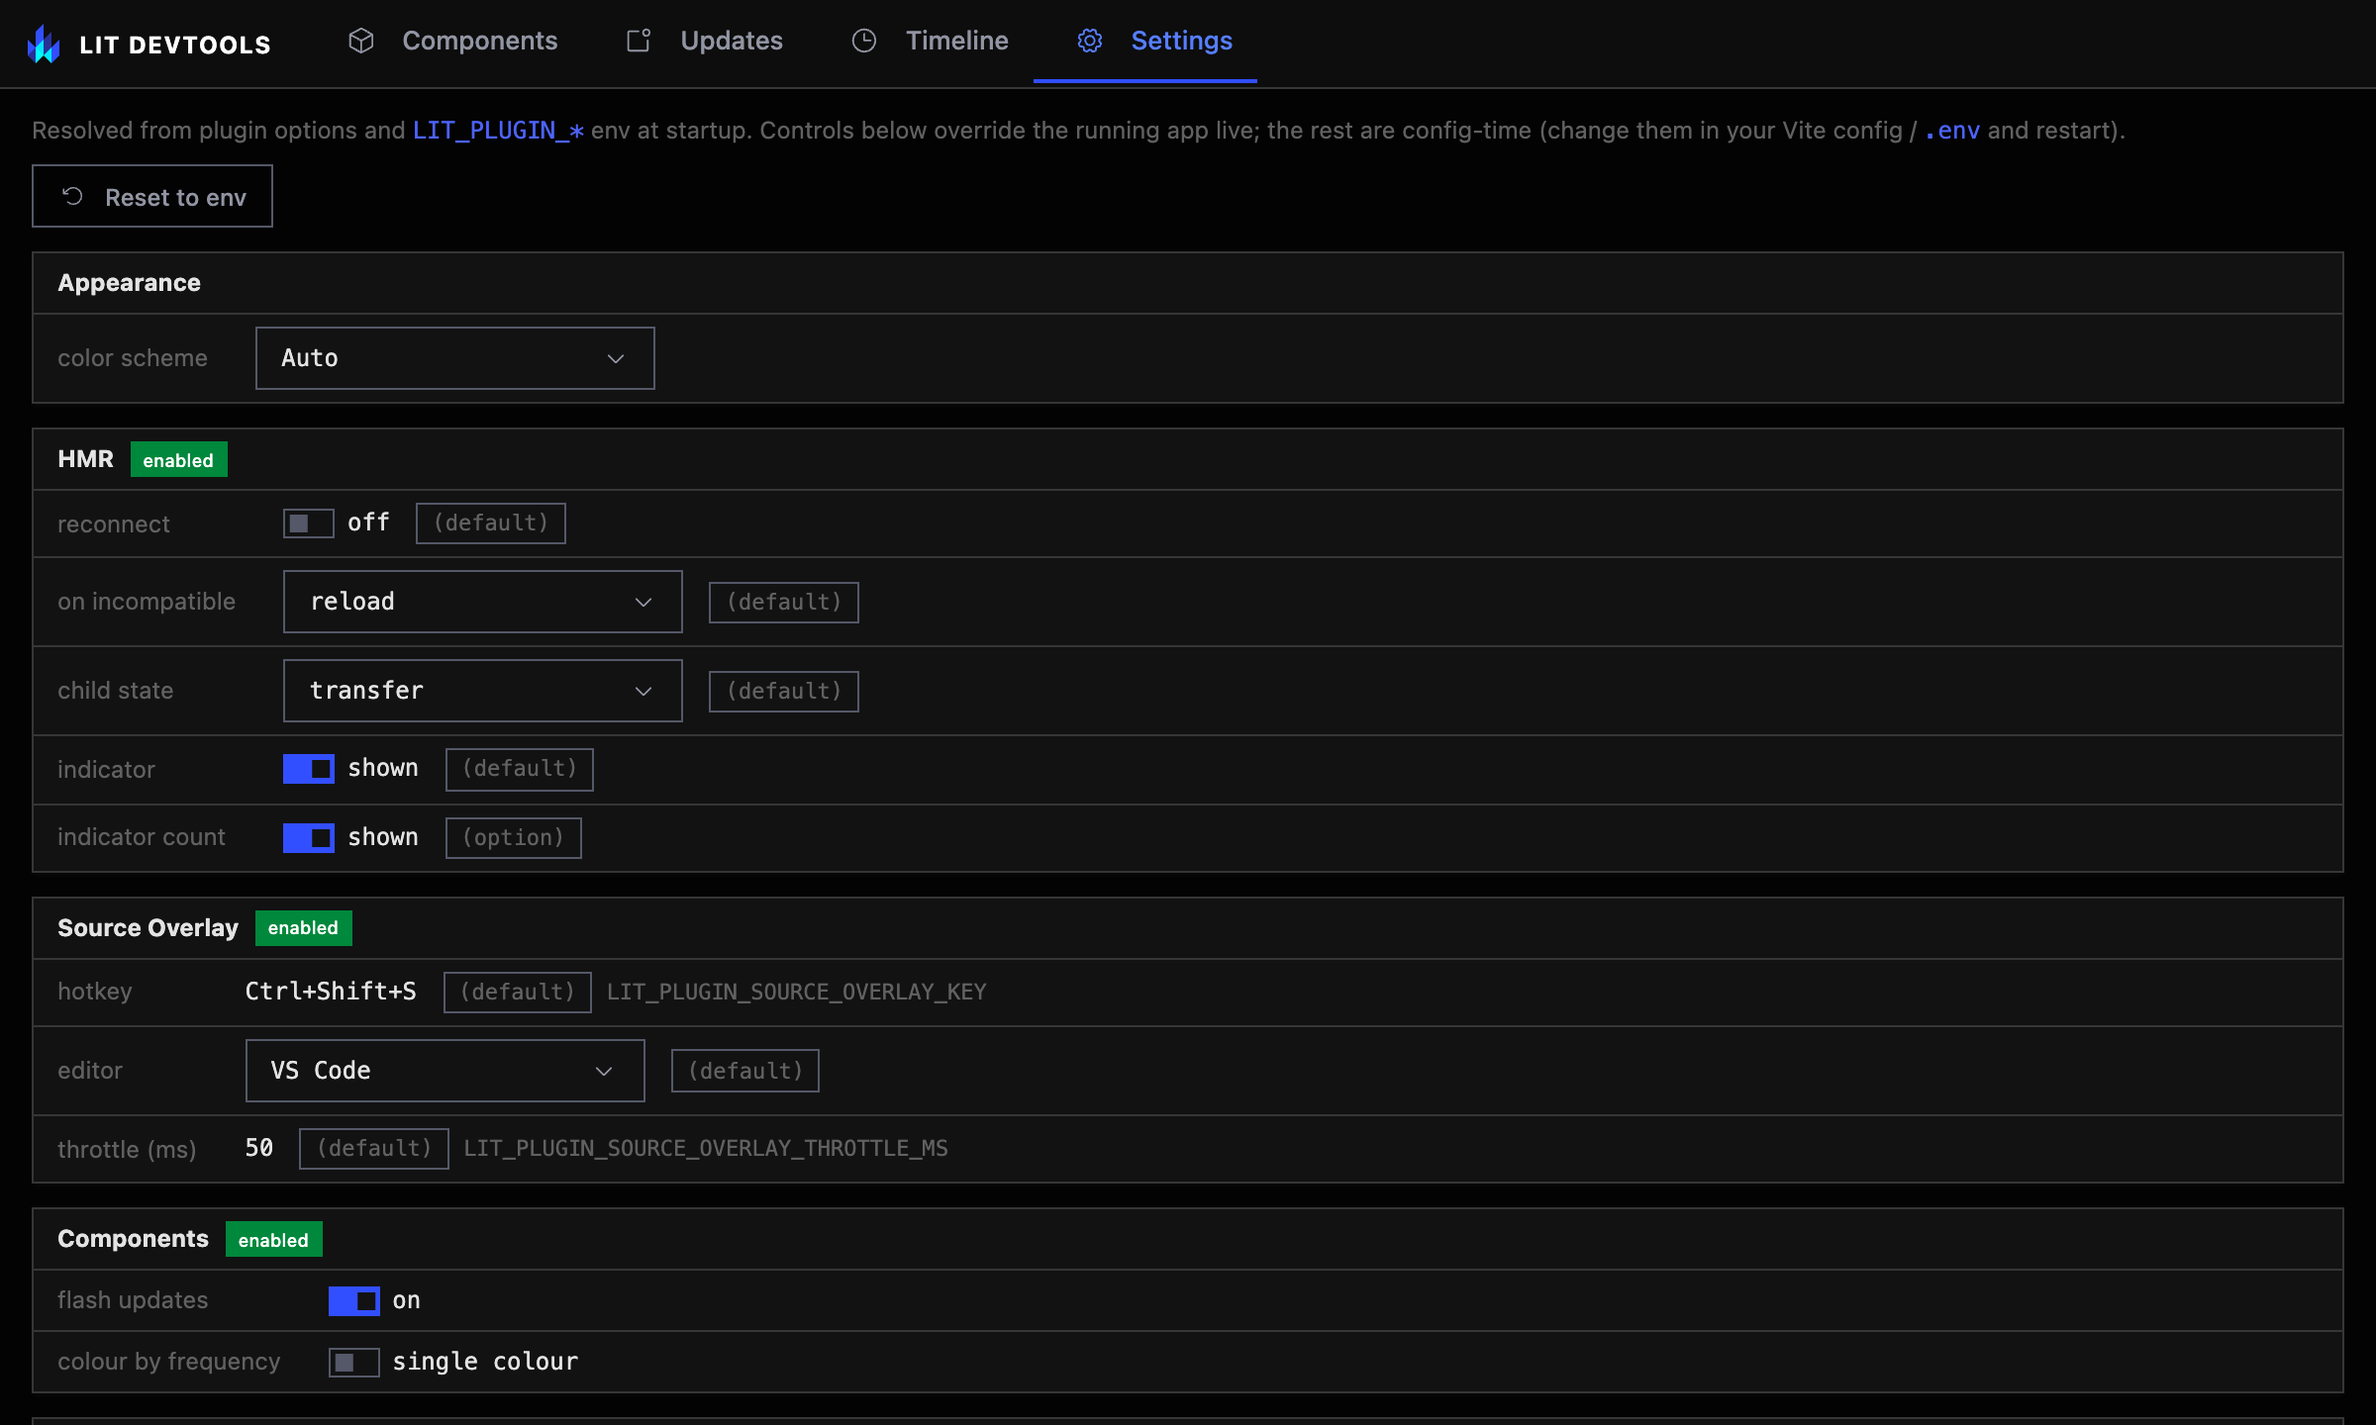
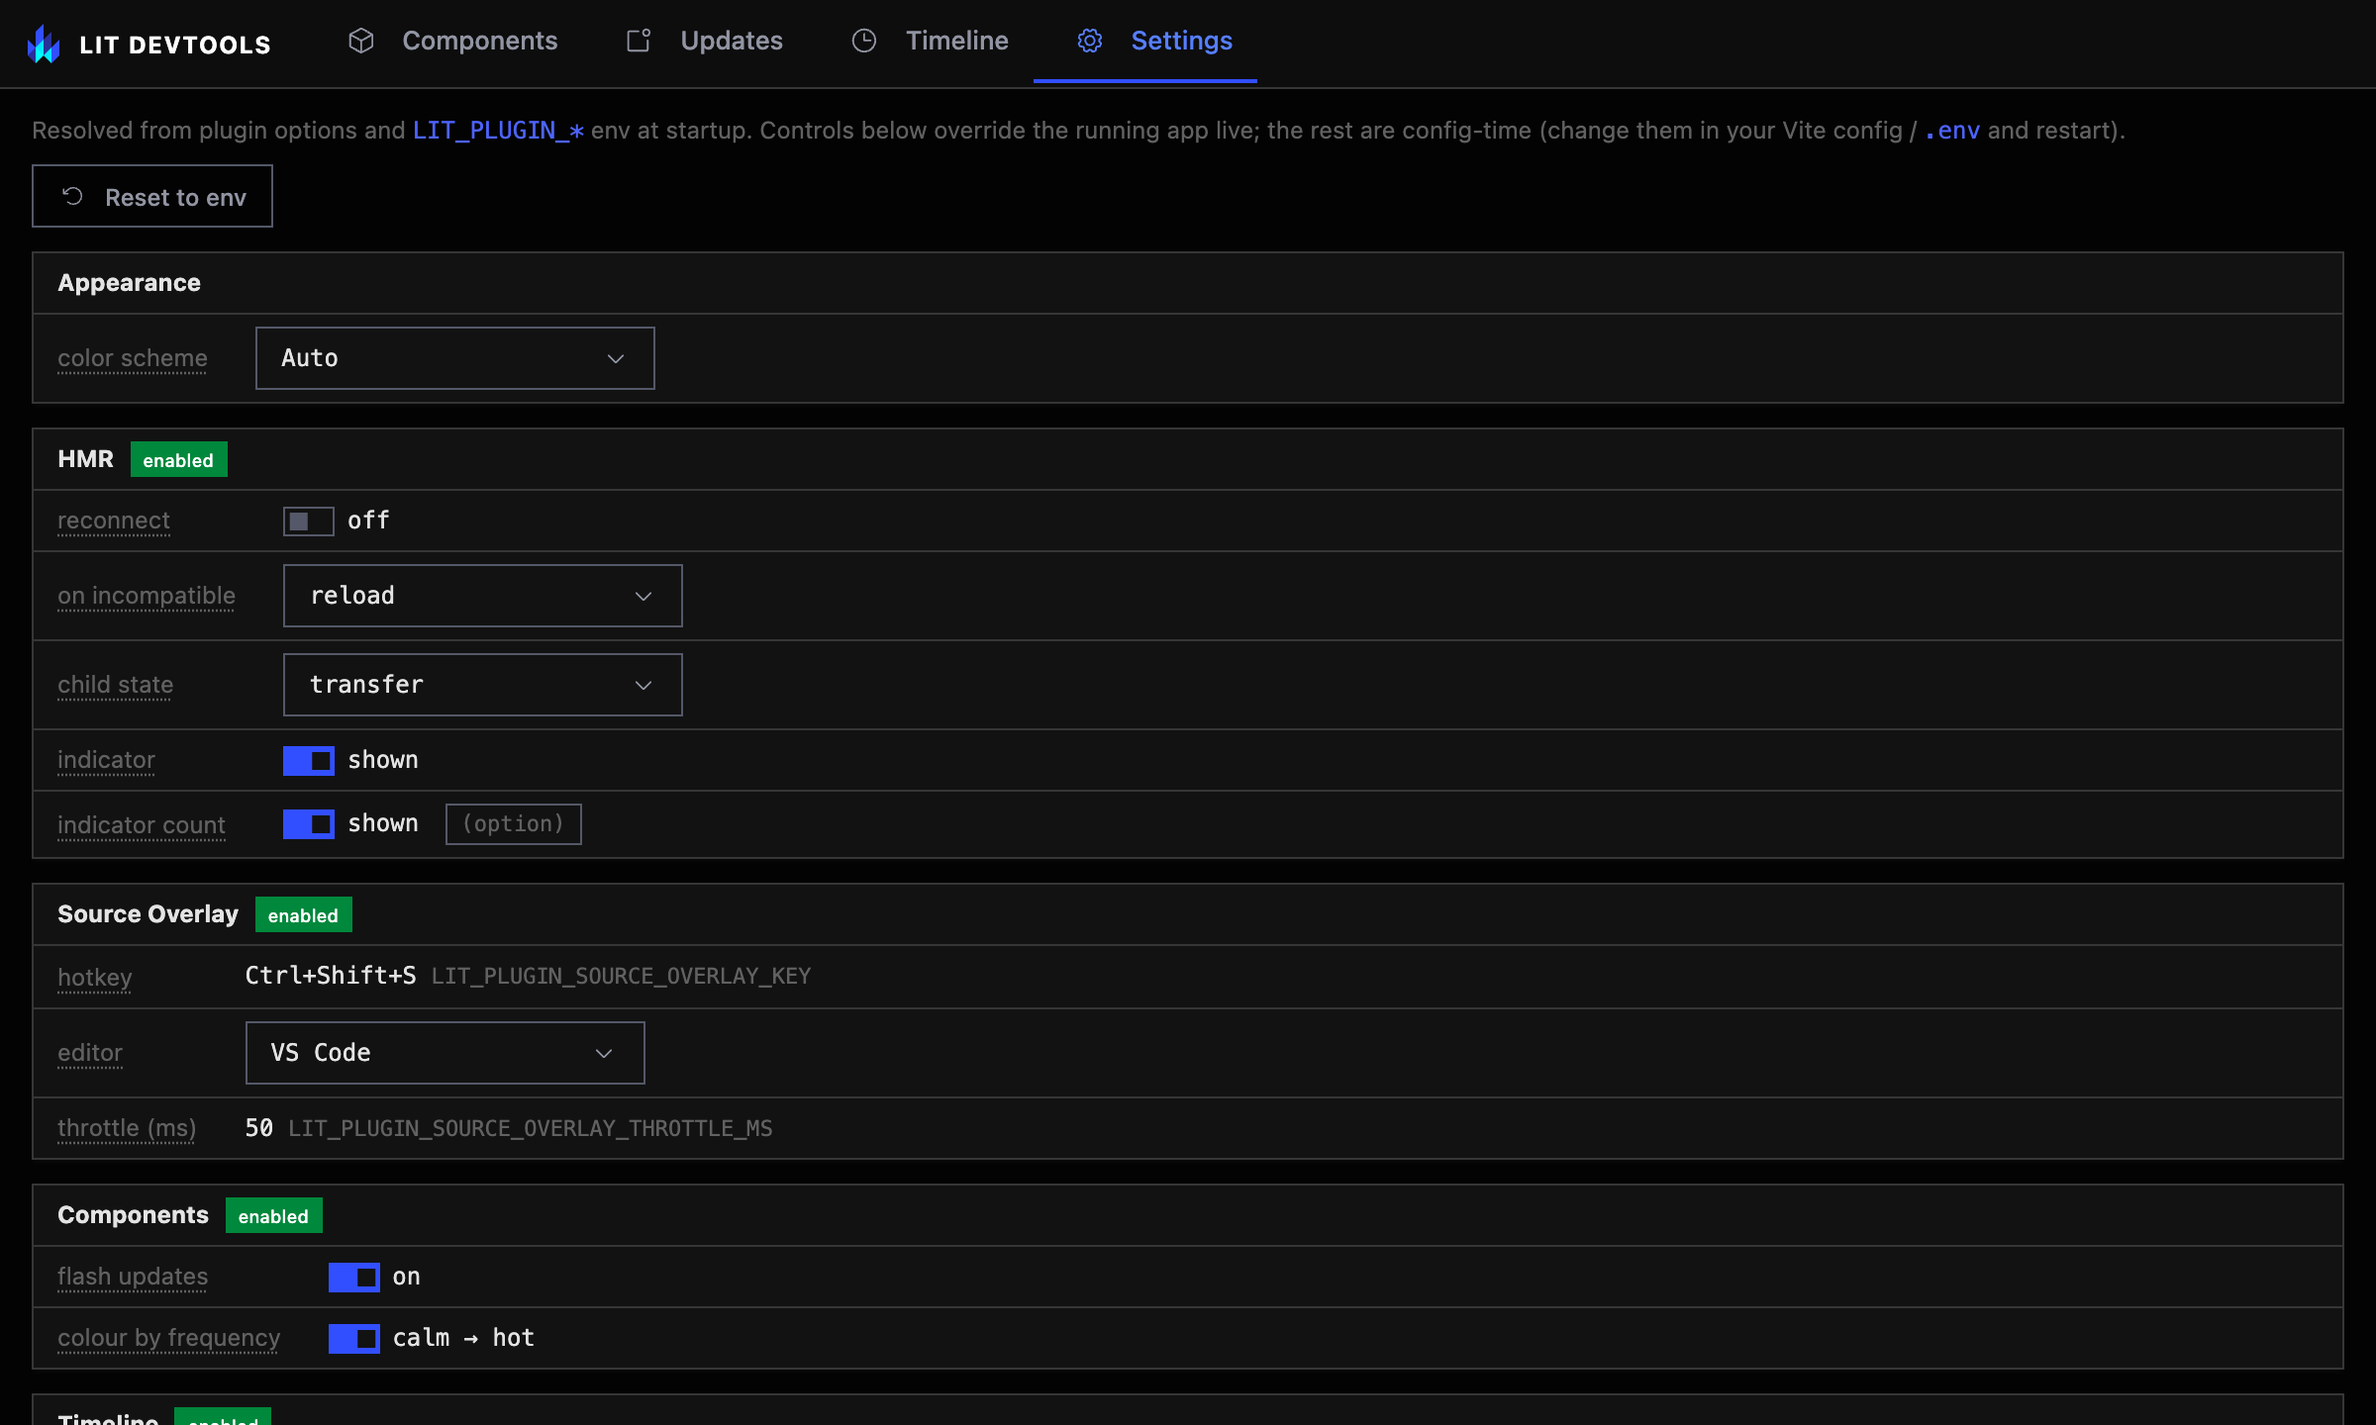
Drop the (default) badge from Settings and explain each row
Nearly every Settings row ended in "(default)", so the badges that do carry
information, "(env)" and "(option)", were lost in the noise. A row now shows
an origin badge only when something other than the built-in default set it.

What the default is moved to where you'd look for it. An open dropdown tags
the configured choice with its origin (default, env or option), and each
setting's name carries a tooltip that says what it does and what it defaults
to. The options get an explicit label, because wa-option otherwise builds the
closed field's text from the end slot too.

Changelog: Changed
  **Settings stops saying "(default)" on every row.** Only values set by an
  option or env var keep an origin badge. Open a dropdown to see which choice
  is the default, or hover a setting's name for what it does and its default.

diff --git a/src/panel/devtools-settings.ts b/src/panel/devtools-settings.ts
@@ -1,4 +1,5 @@
 import {LitElement, html, css, nothing} from 'lit';
+import {ifDefined} from 'lit/directives/if-defined.js';
 import {customElement, state} from 'lit/decorators.js';
 import '@awesome.me/webawesome/dist/components/badge/badge.js';
 import '@awesome.me/webawesome/dist/components/button/button.js';
@@ -94,6 +95,15 @@ export class DevtoolsSettings extends LitElement {
         color: var(--lit-devtools-text-muted);
         white-space: nowrap;
         width: 1%;
+      }
+      .key[data-tip] {
+        cursor: help;
+        text-decoration: underline dotted;
+        text-underline-offset: 3px;
+      }
+      .opt-src {
+        opacity: 0.7;
+        font-size: var(--lit-devtools-text-2xs);
       }
       .val {
         color: var(--lit-devtools-text);
@@ -278,18 +288,37 @@ export class DevtoolsSettings extends LitElement {
   }
 
   /**
-   * Origin badge behind a value, from the server-side provenance:
-   * "(env)", "(option)" or "(default)". Nothing when the server sent none.
+   * Origin badge behind a value, from the server-side provenance: "(env)" or
+   * "(option)". Nothing for a built-in default, which is most rows and would
+   * only be noise, or when the server sent no provenance.
    */
   private _source(key: keyof SettingSources) {
     const src = this._settings?.sources?.[key];
-    return src
+    return src && src !== 'default'
       ? html`<wa-badge
           class="env src"
           size="small"
           appearance="outlined"
           variant="neutral"
           >(${src})</wa-badge
+        >`
+      : nothing;
+  }
+
+  /**
+   * Marker trailing the select option that holds the config baseline, naming
+   * where it came from, so the open list shows which choice is the default.
+   * Option labels come from the default slot only, so the closed select
+   * doesn't repeat it.
+   */
+  private _optSource(
+    key: keyof SettingSources,
+    value: string,
+    baseline: string
+  ) {
+    return value === baseline
+      ? html`<span slot="end" class="opt-src"
+          >${this._settings?.sources?.[key] ?? 'default'}</span
         >`
       : nothing;
   }
@@ -366,11 +395,12 @@ export class DevtoolsSettings extends LitElement {
     key: string,
     value: unknown,
     env?: string,
-    source?: keyof SettingSources
+    source?: keyof SettingSources,
+    tip?: string
   ) {
     return html`
       <tr>
-        <td class="key">${key}</td>
+        <td class="key" data-tip=${ifDefined(tip)}>${key}</td>
         <td class="val">
           ${String(value)} ${source ? this._source(source) : nothing}
           ${env ? html`<span class="env">${env}</span>` : nothing}
@@ -386,7 +416,12 @@ export class DevtoolsSettings extends LitElement {
           <h3 slot="header">Appearance</h3>
           <table>
             <tr>
-              <td class="key">color scheme</td>
+              <td
+                class="key"
+                data-tip="Light or dark panel. Auto follows the system. Default: Auto"
+              >
+                color scheme
+              </td>
               <td class="val">
                 <wa-select
                   size="small"
@@ -404,7 +439,15 @@ export class DevtoolsSettings extends LitElement {
                     ] as Array<[ColorSchemePreference, string]>
                   ).map(
                     ([value, label]) =>
-                      html`<wa-option value=${value}>${label}</wa-option>`
+                      html`<wa-option value=${value} .label=${label}
+                        >${label}${
+                          value === 'auto'
+                            ? html`<span slot="end" class="opt-src"
+                                >default</span
+                              >`
+                            : nothing
+                        }</wa-option
+                      >`
                   )}
                 </wa-select>
               </td>
@@ -432,7 +475,12 @@ export class DevtoolsSettings extends LitElement {
     return html`
       <table>
         <tr>
-          <td class="key">reconnect</td>
+          <td
+            class="key"
+            data-tip="Run disconnectedCallback and connectedCallback on live instances after a hot patch. Default: off"
+          >
+            reconnect
+          </td>
           <td class="val">
             <wa-switch
               size="small"
@@ -450,7 +498,12 @@ export class DevtoolsSettings extends LitElement {
           </td>
         </tr>
         <tr>
-          <td class="key">on incompatible</td>
+          <td
+            class="key"
+            data-tip="What to do when a component can't be hot-patched in place: reload the page, or only warn. Default: reload"
+          >
+            on incompatible
+          </td>
           <td class="val">
             <wa-select
               size="small"
@@ -461,14 +514,27 @@ export class DevtoolsSettings extends LitElement {
                   (e.target as WaSelect).value as 'reload' | 'warn'
                 )}
             >
-              <wa-option value="reload">reload</wa-option>
-              <wa-option value="warn">warn</wa-option>
+              ${(['reload', 'warn'] as const).map(
+                (mode) =>
+                  html`<wa-option value=${mode} .label=${mode}
+                    >${mode}${this._optSource(
+                      'hmrOnIncompatible',
+                      mode,
+                      s.hmr.onIncompatible
+                    )}</wa-option
+                  >`
+              )}
             </wa-select>
             ${this._ovrSource('hmrOnIncompatible', s.hmr.onIncompatible)}
           </td>
         </tr>
         <tr>
-          <td class="key">child state</td>
+          <td
+            class="key"
+            data-tip="What happens to custom elements inside an edited template: transfer hands them the old properties and private state, reuse puts the old element back where it has no bindings, reset starts them fresh. Default: transfer"
+          >
+            child state
+          </td>
           <td class="val">
             <wa-select
               size="small"
@@ -481,14 +547,26 @@ export class DevtoolsSettings extends LitElement {
                 )}
             >
               ${(['transfer', 'reuse', 'reset'] as const).map(
-                (mode) => html`<wa-option value=${mode}>${mode}</wa-option>`
+                (mode) =>
+                  html`<wa-option value=${mode} .label=${mode}
+                    >${mode}${this._optSource(
+                      'hmrChildState',
+                      mode,
+                      s.hmr.childState
+                    )}</wa-option
+                  >`
               )}
             </wa-select>
             ${this._ovrSource('hmrChildState', s.hmr.childState)}
           </td>
         </tr>
         <tr class=${s.hmr.indicatorEnabled ? '' : 'row-disabled'}>
-          <td class="key">indicator</td>
+          <td
+            class="key"
+            data-tip="The dot on the page that pulses on each HMR update. Default: shown"
+          >
+            indicator
+          </td>
           <td class="val">
             <wa-switch
               size="small"
@@ -516,7 +594,12 @@ export class DevtoolsSettings extends LitElement {
           </td>
         </tr>
         <tr class=${s.hmr.indicatorEnabled ? '' : 'row-disabled'}>
-          <td class="key">indicator count</td>
+          <td
+            class="key"
+            data-tip="Show a running update count next to the indicator. Default: hidden"
+          >
+            indicator count
+          </td>
           <td class="val">
             <wa-switch
               size="small"
@@ -553,7 +636,12 @@ export class DevtoolsSettings extends LitElement {
     const label = editorLabel(baseline);
     return html`
       <tr>
-        <td class="key">editor</td>
+        <td
+          class="key"
+          data-tip="The editor that source links and the overlay open files in"
+        >
+          editor
+        </td>
         <td class="val">
           <wa-select
             size="small"
@@ -570,7 +658,13 @@ export class DevtoolsSettings extends LitElement {
                 ? html`<wa-option value="custom" disabled>Custom</wa-option>`
                 : SOURCE_OVERLAY_EDITORS.map(
                     (ed) =>
-                      html`<wa-option value=${ed.value}>${ed.label}</wa-option>`
+                      html`<wa-option value=${ed.value} .label=${ed.label}
+                        >${ed.label}${this._optSource(
+                          'sourceOverlayEditor',
+                          ed.value,
+                          baseline
+                        )}</wa-option
+                      >`
                   )
             }
           </wa-select>
@@ -594,7 +688,12 @@ export class DevtoolsSettings extends LitElement {
     return html`
       <table>
         <tr>
-          <td class="key">flash updates</td>
+          <td
+            class="key"
+            data-tip="Outline elements on the page each time they update. Default: off"
+          >
+            flash updates
+          </td>
           <td class="val">
             <wa-switch
               size="small"
@@ -607,7 +706,12 @@ export class DevtoolsSettings extends LitElement {
           </td>
         </tr>
         <tr class=${flash ? '' : 'row-disabled'}>
-          <td class="key">colour by frequency</td>
+          <td
+            class="key"
+            data-tip="Tint each flash by how often the element updates, from calm to hot, instead of one colour. Default: off"
+          >
+            colour by frequency
+          </td>
           <td class="val">
             <wa-switch
               size="small"
@@ -633,7 +737,12 @@ export class DevtoolsSettings extends LitElement {
     return html`
       <table>
         <tr>
-          <td class="key">chrome performance tracks</td>
+          <td
+            class="key"
+            data-tip="Mirror the timeline into Chrome DevTools' Performance panel as a Lit track group. Default: off"
+          >
+            chrome performance tracks
+          </td>
           <td class="val">
             <wa-switch
               size="small"
@@ -763,14 +872,16 @@ export class DevtoolsSettings extends LitElement {
                     'hotkey',
                     `Ctrl+Shift+${s.sourceOverlay.key.toUpperCase()}`,
                     'LIT_PLUGIN_SOURCE_OVERLAY_KEY',
-                    'sourceOverlayKey'
+                    'sourceOverlayKey',
+                    'Toggles the source overlay on the page. Default: Ctrl+Shift+S'
                   )}
                   ${this._renderEditorRow(s)}
                   ${this._readonlyRow(
                     'throttle (ms)',
                     s.sourceOverlay.throttleMs,
                     'LIT_PLUGIN_SOURCE_OVERLAY_THROTTLE_MS',
-                    'sourceOverlayThrottleMs'
+                    'sourceOverlayThrottleMs',
+                    'Minimum time between overlay updates while the pointer moves. Default: 50'
                   )}
                 </table>`
               : html`<p class="empty">

diff --git a/src/test/dom/panel-devtools-settings_test.ts b/src/test/dom/panel-devtools-settings_test.ts
@@ -2,6 +2,7 @@ import {afterEach, beforeAll, expect, test, vi} from 'vite-plus/test';
 import type {DevtoolsSettings} from '../../panel/devtools-settings.js';
 import {meta, resetClient} from './fakes/client.js';
 import {overrides} from '../../panel/settings-override.js';
+import {resolveOptions, toFeatureSettings} from '../../lib/options.js';
 
 vi.mock('../../panel/client.js', () => import('./fakes/client.js'));
 
@@ -13,6 +14,16 @@ afterEach(() => {
   document.body.replaceChildren();
   resetClient();
 });
+
+const mount = async () => {
+  const el = document.createElement('devtools-settings') as DevtoolsSettings;
+  document.body.append(el);
+  for (let i = 0; i < 5; i++) {
+    await new Promise((resolve) => setTimeout(resolve, 0));
+    await el.updateComplete;
+  }
+  return el.shadowRoot!;
+};
 
 const about = async () => {
   const el = document.createElement('devtools-settings') as DevtoolsSettings;
@@ -73,4 +84,36 @@ test('the color scheme wa-select writes the choice through the settings store', 
 test('About says lit was not detected before a runtime connects', async () => {
   meta.runtime = {ready: false, litPackages: {}, topFrame: true};
   expect(await about()).toContain('not detected');
+});
+
+test('origin badges skip defaults, and the open select marks the baseline', async () => {
+  meta.features = toFeatureSettings(
+    resolveOptions(
+      {sourceOverlay: true},
+      {LIT_PLUGIN_HMR_ON_INCOMPATIBLE: 'warn'}
+    )
+  );
+  const root = await mount();
+  const row = (key: string) =>
+    [...root.querySelectorAll('tr')].find(
+      (tr) => tr.querySelector('.key')?.textContent?.trim() === key
+    )!;
+
+  // childState is a built-in default: no badge, but the option says so.
+  const child = row('child state');
+  expect(child.querySelector('.src')).toBeNull();
+  const marked = child.querySelector('wa-option .opt-src')!;
+  expect(marked.closest('wa-option')!.getAttribute('value')).toBe('transfer');
+  expect(marked.textContent).toBe('default');
+
+  // onIncompatible came from env: the badge stays and the marker names env.
+  const incompatible = row('on incompatible');
+  expect(incompatible.querySelector('.src')?.textContent).toBe('(env)');
+  expect(incompatible.querySelector('wa-option .opt-src')!.textContent).toBe(
+    'env'
+  );
+
+  expect(child.querySelector('.key')!.getAttribute('data-tip')).toContain(
+    'Default: transfer'
+  );
 });
